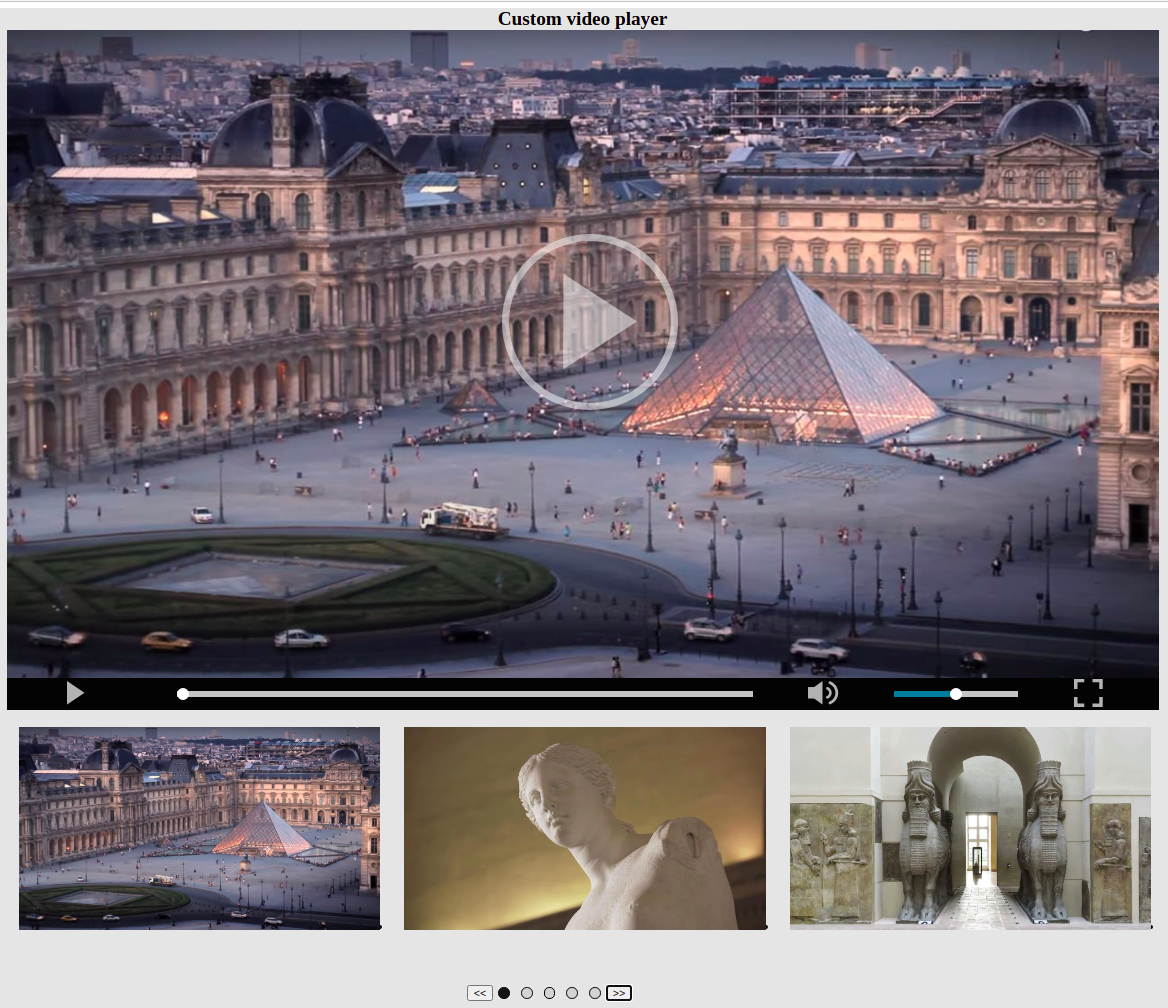
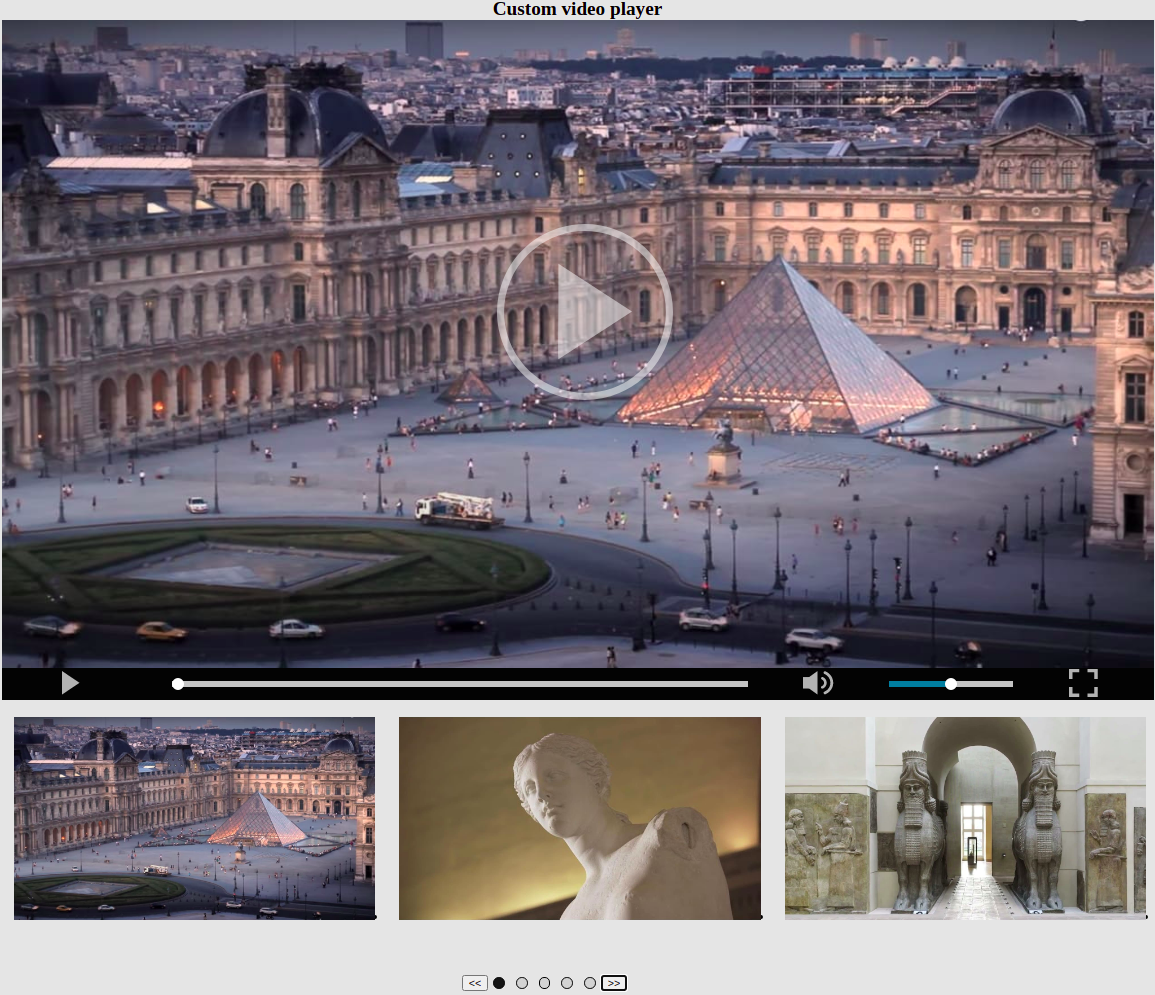
refactor: change styling of the cv

diff --git a/style.css b/style.css
@@ -3,6 +3,10 @@
   --main-border-color:#0df3e82a;
   --body-background-color:#D3D3D3;
   --container-background-color: #c0c4c3;
+  --menu-background-color: #0df3e82a;
+  --main-font-color: #ffffff;
+  --aside-background-color: #413c3c;
+  --aside-link-color: #05c098;
 }
 
 html {
@@ -24,8 +28,9 @@ html {
 body {background-color: var(--body-background-color);}
 
 .container {
+  position: relative;
   display: grid;
-  grid-auto-rows: minmax(100px, auto);
+  /* grid-auto-rows: minmax(50px, auto); */
   grid-template-columns: fit-content(360) fit-content(390);
   grid-template-areas:
     "header header"
@@ -34,40 +39,36 @@ body {background-color: var(--body-background-color);}
 
   max-width: 1024px;
   margin: 0 auto;
-  border: 0.2rem solid var(--main-border-color);
+  /* border: 0.2rem solid var(--main-border-color); */
   background-color: var(--container-background-color);
 }
 
 header {
-  position: relative;
-  grid-column: 1/3;
+  position: fixed;
+  display: block;
+  grid-column: 1/4;
 
-  display: flex;
-  flex-direction: column;
-  align-items: flex-end;
-
+  width: 100%;
+  max-width: 1024px;
   background-color: var(--main-background-color);
-  /* border: 0.2rem solid var(--main-border-color);*/
 }
 
 .menu-wrapper {
-  position: fixed;
   display: flex;
   flex-wrap: nowrap;
   justify-content: space-around;
-  flex: 3 1 100%;
+  flex: 1 1 100%;
 
   max-width: 100%;
 
-  padding: 15px 15px;
-  /* background-color: var(--main-background-color); */
+  padding: 12px 15px;
+  /* background-color: var(--menu-background-color); */
 }
 
 .menu {
   display: flex;
   flex-wrap: nowrap;
   justify-content: space-around;
-
   max-width: 100%;
 }
 
@@ -80,21 +81,15 @@ header {
 }
 
 .menu-item {
-  margin: 0 0 0 15px;
+  padding: 0 10px 0 10px;
   list-style: none;
 }
 
-.menu-link {text-decoration: none;}
-
-.header__sub-wrapper {
-  display: flex;
-  flex: 0 0 auto;
-  justify-content: space-between;
-  width: 100%;
-  padding: 50px 0 0 0;
-
-  box-sizing: border-box;
-  
+.menu-link {
+  font-size: 1rem;
+  text-decoration: none;
+  text-transform: uppercase;
+  color: var(--main-font-color);
 }
 
 .main-photo {
@@ -103,24 +98,31 @@ header {
   max-width: 100%;
   max-height: 100%;
 
-  padding: 5px;
+  padding: 3px;
 }
 
-.main-photo img {border-radius: 50%;}
+.main-photo img {
+  border-width: 2px;
+  border-radius: 50%;
+  border-color: var(--main-border-color);
+}
 
-.header__profile-wraper {
+.additional-title {display: none;}
+
+.profile-wraper {
   display: flex;
   flex-flow: column;
   justify-content: space-evenly;
   width: 100%;
 
-  padding: 0 1rem;
+  padding: 0;
 }
 
-.header__sub-wrapper >
-h3,
-h2,
-h1 {text-align: center;}
+.profile-wraper h1,
+.profile-wraper h2 {
+  padding: 10px 0;
+  text-align: center;
+}
 
 aside {
   grid-area: "aside";
@@ -130,10 +132,16 @@ aside {
   justify-content: flex-start;
   box-sizing: border-box;
   max-width: 310px;
+  padding: 50px 0 0 0;
 
+  background-color: var(--aside-background-color);
 }
 
 aside ul {margin-left: 1.1rem;}
+
+aside li {color: var(--main-font-color)}
+
+aside a {color: var(--aside-link-color)}
 
 #contacts,
 #skills,
@@ -153,9 +161,8 @@ main {
   flex-direction: column;
   align-content: space-around;
   justify-content: space-evenly;
-  padding-right: 0.5rem;
-  padding-left: 3rem;
-  margin-top: 10px;
+  padding: 50px 0.5rem 0 3rem;
+
 }
 
 .screenshot {max-width: 100%;}
@@ -165,25 +172,24 @@ p {text-indent: 1rem;}
 h3 {
   background-color: var(--main-background-color);
   text-align: center;
+  color: var(--main-font-color);
 }
 
 #expirience,
 #code-review,
 #education {padding: 15px 10px;}
 
-.video-presentation {padding-left: 20%;}
+.video-presentation {
+  display: block;
+  max-width: 100%;
+  padding-left: 20%;
+}
 
 footer {
   grid-area: footer;
-
   display: inline-flex;
   align-items: center;
-  
   background-color: var(--main-background-color);
-  border: 0.2rem solid var(--main-border-color);
-  border-bottom-width: 0;
-  border-right-width: 0;
-  border-left-width: 0;
 }
 
 figure {
@@ -195,54 +201,95 @@ details {padding: 0.5rem;}
 
 @media (max-width: 960px) {
   .container {
+  position: relative;
   display: flex;
   flex-direction: column;
   align-items: center;
-  border: 0.2rem solid var(--main-border-color);
   }
+  .header {
+    max-width: 760px;
+    overflow: hidden;
+  }
+  .menu-item {padding: 0 5px 0 5px;}
 
-  main {max-width: 760px;}
+  .menu-link {font-size: 0.8rem;}
+
+  .additional-title {
+    display: block;
+    width: 50%;
+    text-align: center;
+    }
+
+  .main-title {display: none;}
+
+  main {
+    padding-top: 0;
+    max-width: 760px;
+  }
 
   pre {font-size: 12px;}
 
   aside {
     flex-direction: row;
-    max-width: 760px;
+    flex-wrap: wrap;
+    justify-content: space-around;
+    max-width: 80%;
+    align-items: center;
+    background-color: var(--aside-background-color);
   }
 
+  .main-photo {padding-left: 10%;}
+  .main-photo img {
+    display: block;
+    
+    max-width: 250px;
+    max-height: 304px;
+    
+    overflow: hidden;
+    object-fit: scale-down;
+  }
+  
   .contacts-wraper,
   .skills-wrapper,
   .langueges-wrapper {margin: 15px 35px;}
 
-  footer {max-width: 100%;}
+  footer {
+    max-width: 100%;
+    background-color: var(--container-background-color);
+  }
+
 }
 
 @media (max-width: 768px) {
   body.lock {overflow: hidden;}
 
   .container {
+    position: relative;
     display: flex;
     flex-direction: column;
+    max-width: 100%;
     align-items: center;
     transition: all 0.5s ease-in-out;
   }
 
-  .header {z-index: 2;}
+  .header {
+    z-index: 0;}
 
   .header:before {
-    content: '';
+    /* content: '';
     position: absolute;
     top: 0;
     left: 0;
     width: 100%;
     height: 50px;
-    background-color: #1cdbab;
-    z-index: 2;
+    background-color: var(--menu-background-color);
+    z-index: 2; */
   }
 
   .menu-wrapper {
     display: block;
-    position: relative;
+    /* position: relative; */
+    
     width: 50px;
     min-height: 40px;
     padding: 0;
@@ -273,8 +320,8 @@ details {padding: 0.5rem;}
   .burger {
     position:absolute;
     display: block;
-    right: 15px;
-    top: 25px;
+    right: 25px;
+    top: 15px;
     z-index: 4;
   }
 
@@ -304,25 +351,16 @@ details {padding: 0.5rem;}
     top: 0px;
   }
   
-  .header__sub-wrapper {
-    display: flex;
-    flex-direction: column;
-    justify-content: space-between;
-    align-items: center;
-  }
   .main-photo img {padding: 5px 5px;}
   
-  .header__sub-wrapper 
-  h2,
-  h1 {margin: 5px 0;}
-
   main {max-width: 560px;}
 
   pre {font-size: 9px;}
 
   aside {
-    flex-direction: column;
-    max-width: 560px;
+    max-width: 100%;
+    min-width: 560px;
+    background-color: var(--container-background-color);
   }
   .video-presentation {
     padding-left: 0;

diff --git a/index.html b/index.html
@@ -51,6 +51,8 @@
           <source media="(min-width: 769px)" srcset="assets/img/photo_305_409.jpg">
           <img src="assets/img/photo_305_409.jpg" alt="My photo for cv">
         </picture>
+        <h2 class="additional-title">Aliaksei Kamoska</h2>
+        <h2 class="additional-title">Junior Front End Developer</h2>
         <div class="contacts-wraper">
           <h3 id="contacts">Contacts</h3>
           <ul>
@@ -87,8 +89,8 @@
 
       <main>
         <div class="profile-wraper">
-          <h1>Aliaksei Kamoska</h1>
-          <h2>Junior Front End Developer</h2>
+          <h1 class="main-title">Aliaksei Kamoska</h1>
+          <h2 class="main-title">Junior Front End Developer</h2>
           <article id="profile">
             <h3>Profile</h3>
             <p>Budding front-end developer with a knowledge of how to build accesabale and responsive web design. Easily can
@@ -110,13 +112,13 @@
               <a href="https://rolling-scopes-school.github.io/avkomosko-JSFEPRESCHOOL/vertical-slider" class="project" target="_blank">RS school "Double vertical slider"
                 <img class="screenshot" src="assets/img/slider.png" alt="vertical-slider screenshot">
               </a>
-              <p>A learning project with "infinite" slider. In addition to buttons it has mouse swipes and mouse scroll functionality.</p>
+              <p>A learning project with "infinite" pure JavaScript slider. In addition to buttons it has mouse swipes and mouse scroll functionality.</p>
             </li>
             <li>
               <a href="https://rolling-scopes-school.github.io/avkomosko-JSFEPRESCHOOL/custom-video-player/" class="project" target="_blank">RS school "Custom video player"
                 <img class="screenshot" src="assets/img/video-player.png" alt="video-player screenshot">
               </a>
-              <p>A learning project with custom video player. It has detailed description in the console.</p>
+              <p>A learning project with custom video player. Pure JavaScript and CSS. It has detailed description in the console.</p>
             </li>
           </ul>
         </article>
@@ -142,8 +144,9 @@
             <li>2015-2018 English at the Intenational House school</li>
             <li>2017 "Adaptation of an employee to the role of a manager" course at the <a href="https://www.zis.by/">zis.by</a></li>
             <li>2019 "Professional manager skills" course at the <a href="https://www.zis.by/">zis.by</a></li>
-            <li>2021-present online courses on <a href="https://developer.mozilla.org/en-US/">Mozilla Developer Network</a></li>
+            <li>2021 online courses on <a href="https://developer.mozilla.org/en-US/">Mozilla Developer Network</a></li>
             <li>2021-present online course on <a href="https://learn.javascript.ru/">Learnjavascript.ru</a></li>
+            <li>2021-present online course on <a href="https://rs.school/">RS School</a></li>
           </ul>
         </article>
         <article id="video">
